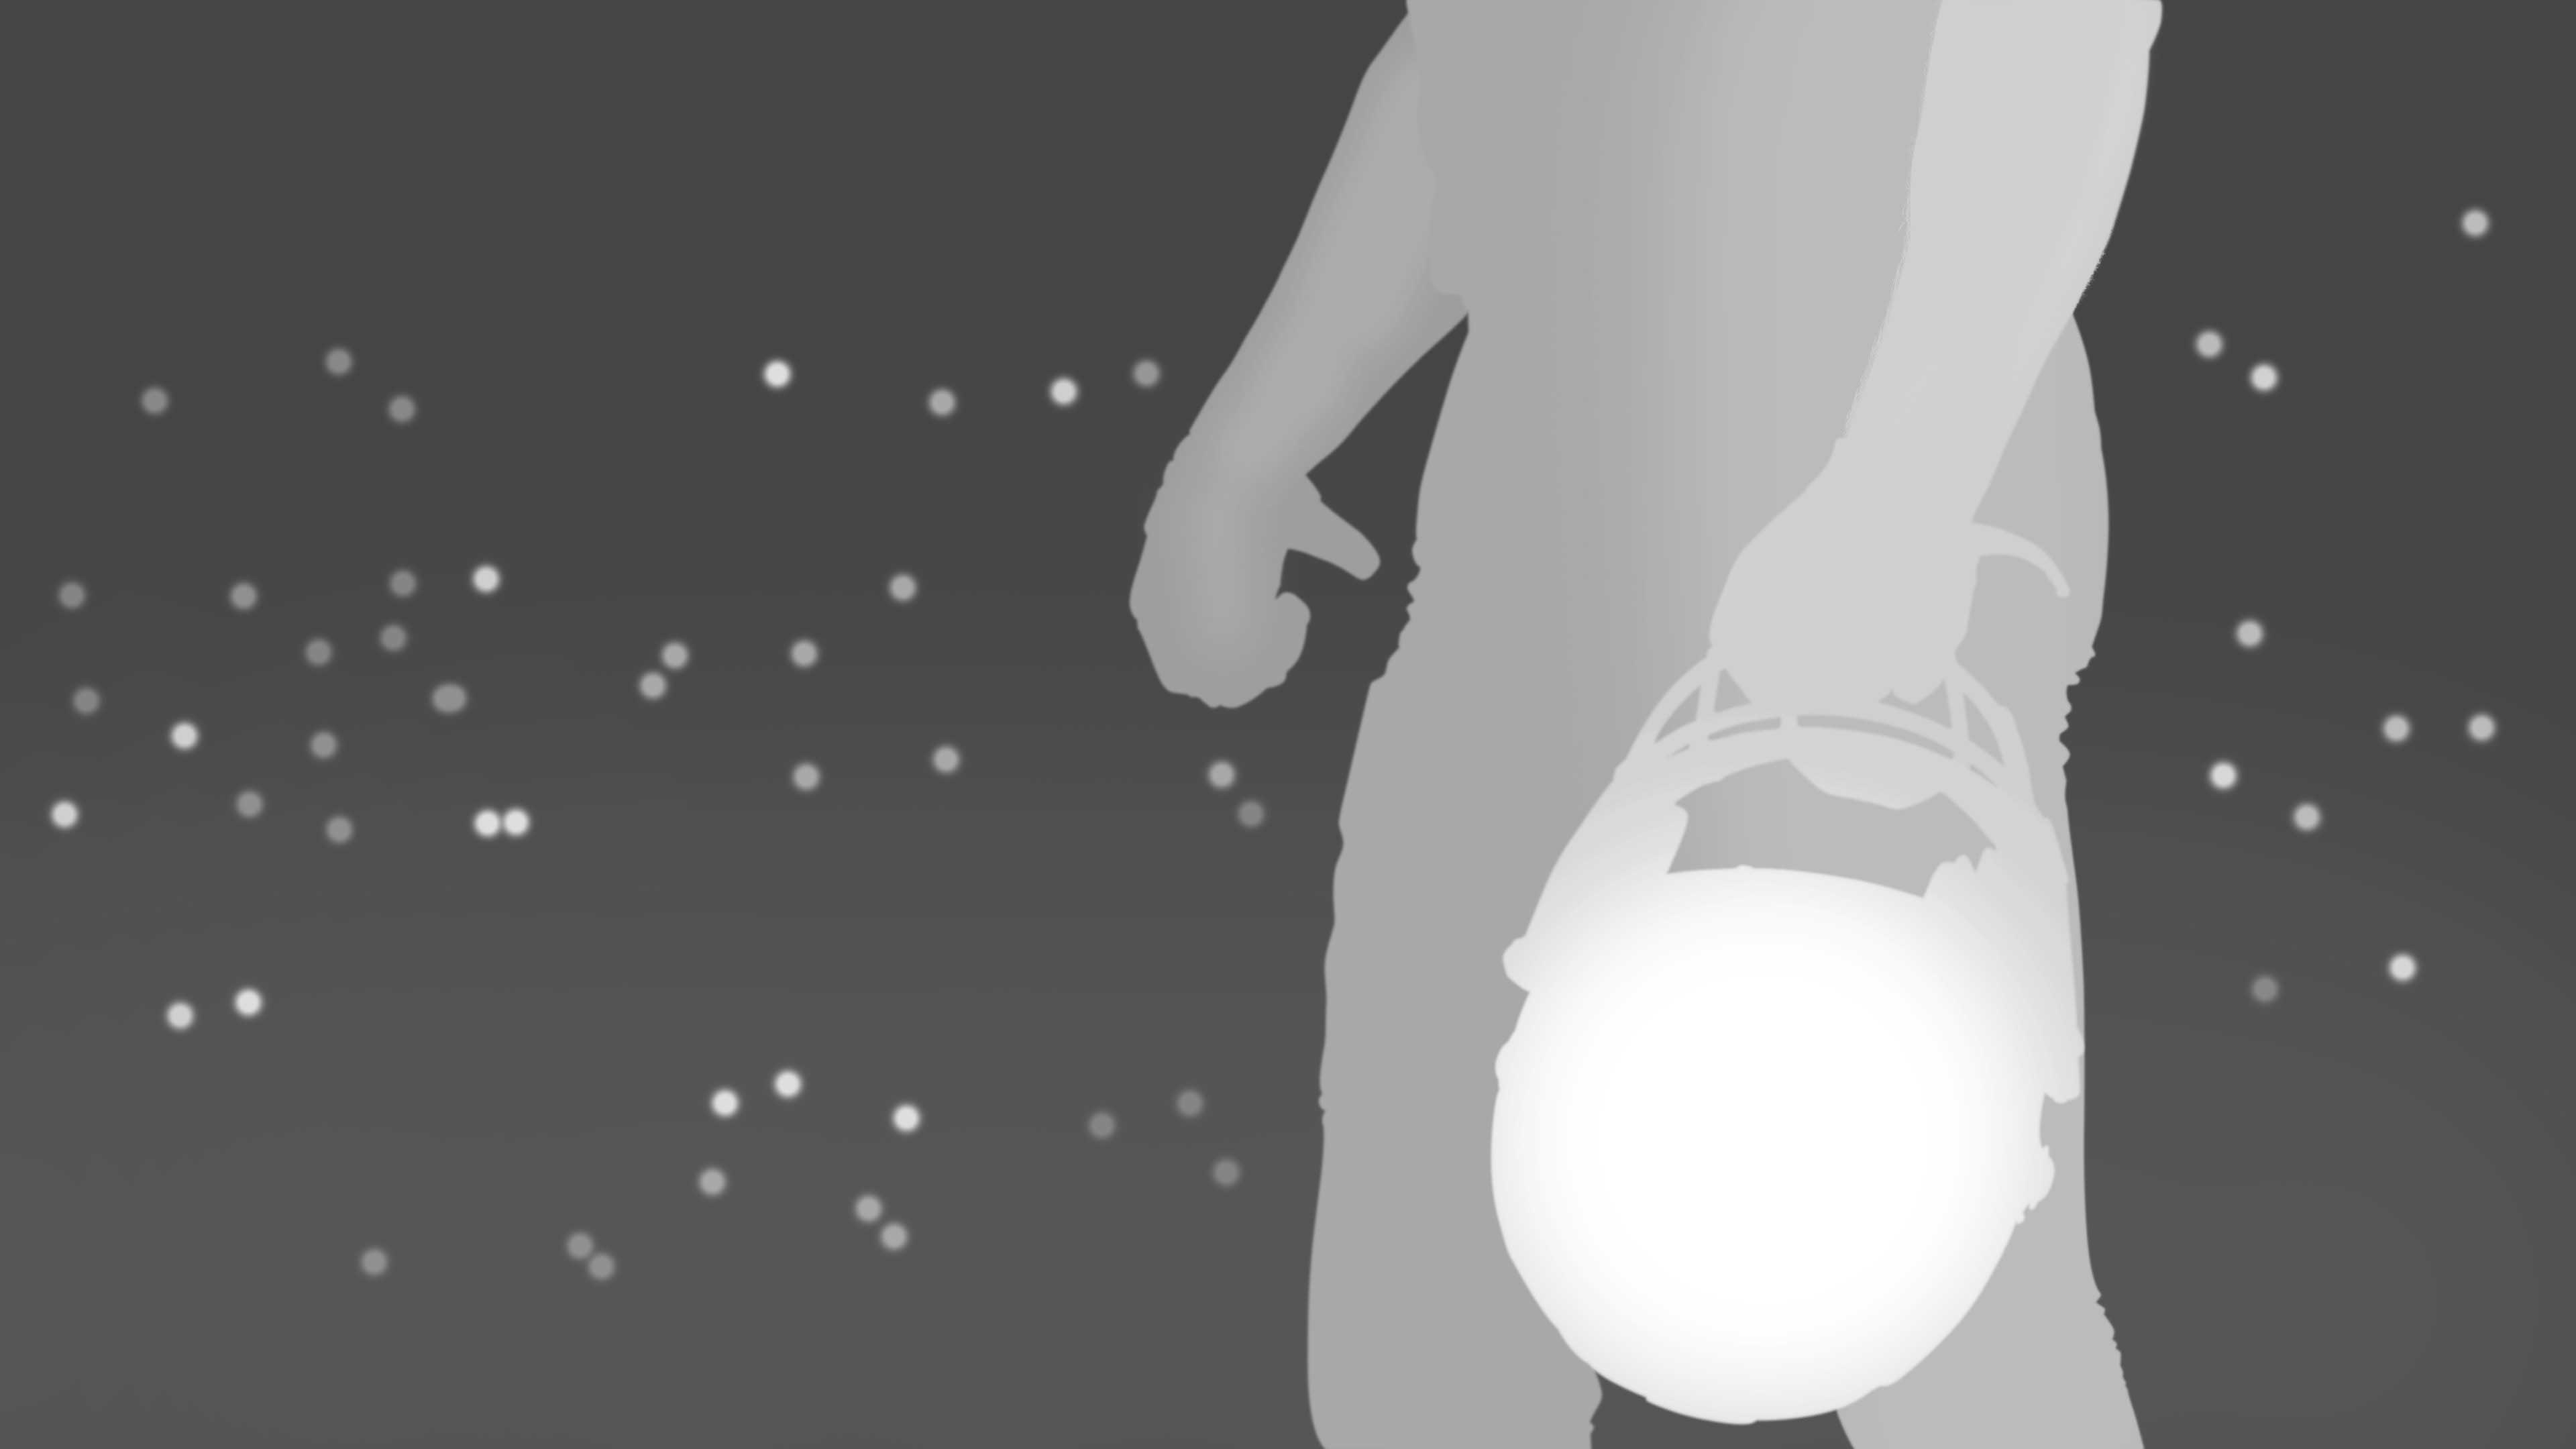
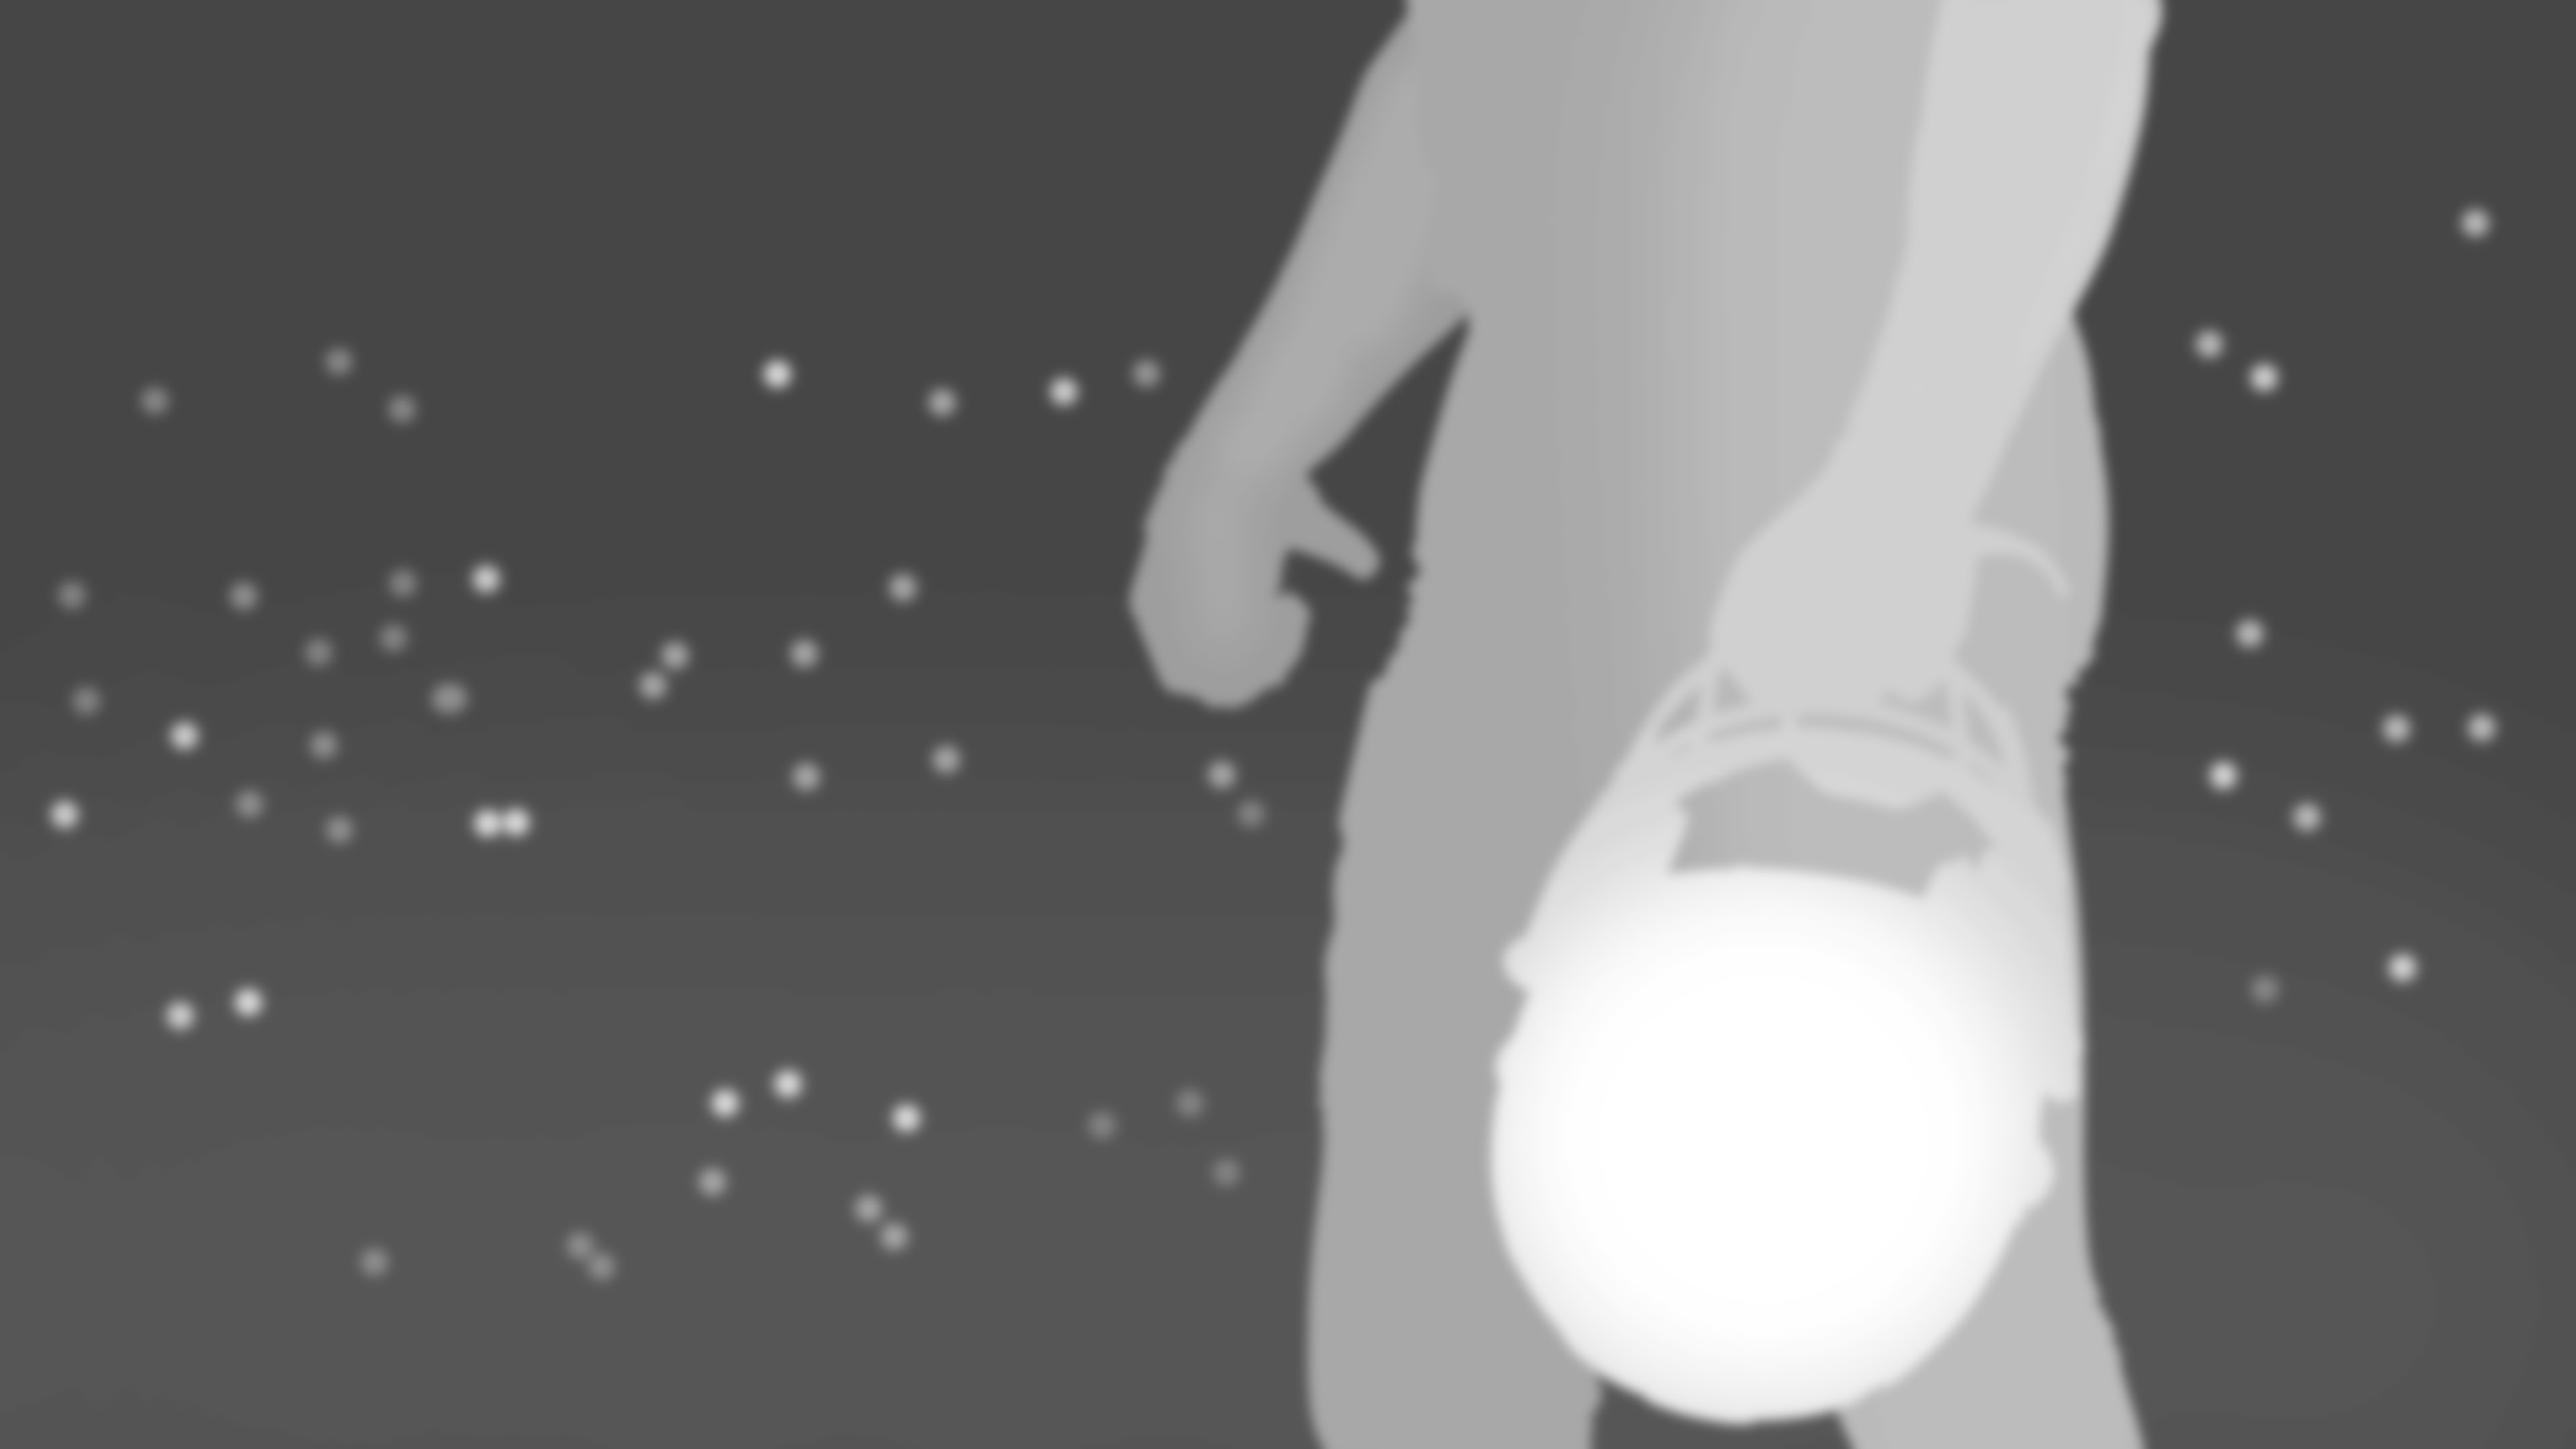
3d parralax

diff --git a/js/demo5.js b/js/demo5.js
@@ -49,75 +49,37 @@ let sketch = new Sketch({
 					(d - b) * u.x * u.y;
 		}
 
+		vec2 mirrored(vec2 v) {
+			vec2 m = mod(v,2.);
+			return mix(m,2.0 - m, step(1.0 ,m));
+		  }
+
 
 
 		void main()	{
 			
 			vec2 ppp = vec2(vUv);
-			float n = noise(ppp);
+			float n = random(ppp) * 0.01;
 	
 			vec4 d1 = texture2D(displacement, vUv);
 
 			float displace = (d1.r + d1.g + d1.b)*0.33;
 
-			float smallProgress = progress * 0.1;
-			float smallProgressNegative = (1. - progress) * 0.1;
+			vec4 depth1 = texture2D(alpha1, vec2(vUv.x +  (progress / 10.), vUv.y));
+			vec4 depth2 = texture2D(alpha2, vec2(vUv.x +  (1. - progress )/ 10., vUv.y));
 
-			vec4 depth1 = texture2D(alpha1, vUv);
-			vec4 depth2 = texture2D(alpha2, vUv);
+			float blur1 = (n + random(vec2(n,n+1.)) * 0.3) * progress / 10.;
+			float blur2 = (n + random(vec2(n,n+1.)) * 0.3) * (1.-progress) / 10.;
 
+			vec2 myMouse = vec2(uMouse.x * 0.01 + sin(time) * 0.0025, uMouse.y * 0.01);
 
-			vec2 myMouse = vec2(uMouse.x * 0.01, uMouse.y * 0.01);
+			vec4 s1 = texture2D(slide1, vec2((vUv.x + blur1 + myMouse.x * (depth1.r - 0.5))  +  progress / 10. * (displace * intensity) , vUv.y + myMouse.y * (depth1.r - 0.5)));
+			vec4 s2 = texture2D(slide2, vec2((vUv.x + blur2 + myMouse.x * (depth2.r - 0.5))  + (1. - progress) / 10. * (displace * intensity) , vUv.y + myMouse.y * (depth2.r - 0.5)));
 
-			vec4 s1 = texture2D(slide1, vec2((vUv.x + myMouse.x * depth1.r) +  progress * (displace * intensity) , vUv.y + myMouse.y * depth1.r));
-			vec4 s2 = texture2D(slide2, vec2((vUv.x + myMouse.x * depth2.r) + (1. - progress) * (displace * intensity) , vUv.y + myMouse.y * depth2.r));
-
-
+	
 			gl_FragColor = mix(s1, s2, progress);
 
 		}
 
 	`
 });
-
-let ss = `
-void main()	{
-			
-	vec4 d1 = texture2D(displacement, vUv);
-
-			float displace1 = (d1.r + d1.g + d1.b)*0.33;
-
-			vec4 depth1 = texture2D(alpha1, vUv);
-			vec4 depth2 = texture2D(alpha2, vUv);
-			vec2 u_uv = vUv;
-
-			vec4 t1 = texture2D(slide1, vec2(vUv.x + uMouse.x * depth1.r * 0.01 * (displace1 * intensity) , vUv.y + uMouse.y * depth1.r * 0.01));
-			vec4 t2 = texture2D(slide2, vec2(vUv.x + uMouse.x * depth2.r * 0.01 * (displace1 * intensity) , vUv.y + uMouse.y * depth2.r * 0.01));
-		
-			 
-			gl_FragColor = mix(t1, t2, progress);
-
-}
-
-
-
-void main()	{
-
-	vec2 newUV = (vUv - vec2(0.5))*resolution.zw + vec2(0.5);
-
-	vec4 d1 = texture2D(displacement, newUV);
-
-	float displace1 = (d1.r + d1.g + d1.b)*0.33;
-
-	vec4 depth1 = texture2D(alpha1, newUV);
-	vec4 depth2 = texture2D(alpha2, newUV);
-
-	vec4 t1 = texture2D(slide1, newUV + uMouse * 0.01 * depth1.r + sin(time) * 0.001 + progress * 0.1 * (displace1 * intensity));
-	vec4 t2 = texture2D(slide2, newUV + uMouse * 0.01 * depth2.r + sin(time) * 0.001 + (1.0 - progress) * 0.1 * (displace1 * intensity));
-	
-	gl_FragColor = texture2D(slide1, newUV);
-
-}
-
-
-`;

diff --git a/js/sketch.js b/js/sketch.js
@@ -45,8 +45,6 @@ class Sketch {
     this.slides = [];
     this.alphas = [];
 
-    this.mouseMove();
-
     this.paused = true;
     this.initiate(() => {
       console.log(this.textures);
@@ -54,6 +52,7 @@ class Sketch {
       this.settings();
       this.addObjects();
       this.resize();
+      this.mouseMove();
       this.clickEvent();
       this.play();
     });
@@ -160,7 +159,7 @@ class Sketch {
         time: { type: "f", value: 0 },
         progress: { type: "f", value: 0 },
         border: { type: "f", value: 0 },
-        intensity: { type: "f", value: 0 },
+        intensity: { type: "f", value: 0.02 },
         scaleX: { type: "f", value: 40 },
         scaleY: { type: "f", value: 40 },
         transition: { type: "f", value: 40 },
